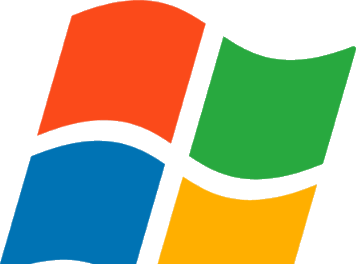
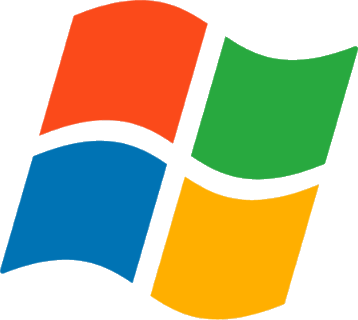
Boot: full uncropped original XP flag (bottom wave restored), boot shows on every reload for 5s; Start button uses full flag; right-click menu submenus fixed (hover no longer closes them, parent click toggles, outside-click only closes, submenus flip left near screen edge)

Changed region(s): [[0.0, 0.0, 1.0, 1.0], [0.2472, 0.0, 0.3399, 0.0303], [0.1854, 0.0303, 0.2472, 0.0909]]

diff --git a/src/components/win7/ContextMenu.tsx b/src/components/win7/ContextMenu.tsx
@@ -39,7 +39,13 @@ export function DesktopContextMenu(props: DesktopMenuProps) {
   }, [x, y]);
 
   useEffect(() => {
-    const away = () => onClose();
+    // Close only on a pointer press OUTSIDE any menu — never on a press
+    // inside the main menu or its submenu (stopPropagation alone was not
+    // reliable here, so check the actual target).
+    const away = (e: PointerEvent) => {
+      if ((e.target as HTMLElement | null)?.closest?.(".w7-menu")) return;
+      onClose();
+    };
     window.addEventListener("pointerdown", away);
     return () => window.removeEventListener("pointerdown", away);
   }, [onClose]);
@@ -47,7 +53,7 @@ export function DesktopContextMenu(props: DesktopMenuProps) {
   const item = (
     label: string,
     onClick?: () => void,
-    opts?: { submenu?: "view" | "sort" | "new"; checked?: boolean },
+    opts?: { submenu?: "view" | "sort" | "new"; checked?: boolean; inSubmenu?: boolean },
   ) => (
     <button
       key={label}
@@ -55,9 +61,21 @@ export function DesktopContextMenu(props: DesktopMenuProps) {
       role="menuitem"
       className="w7-menu-item"
       data-open={sub === opts?.submenu}
-      onPointerEnter={() => setSub(opts?.submenu ?? null)}
+      onPointerEnter={() => {
+        // BUG FIX: submenu items used to reset the open submenu to null on
+        // hover, so the submenu vanished the instant the pointer touched
+        // it and no click could ever land. Items inside an open submenu
+        // must leave the submenu state untouched.
+        if (opts?.inSubmenu) return;
+        setSub(opts?.submenu ?? null);
+      }}
       onClick={() => {
-        if (opts?.submenu) return;
+        // Parent items are clickable too: clicking View / Sort By / New
+        // toggles its submenu open (hover alone is not the only way in).
+        if (opts?.submenu) {
+          setSub((prev) => (prev === opts.submenu ? null : opts.submenu));
+          return;
+        }
         onClick?.();
         onClose();
       }}
@@ -72,7 +90,12 @@ export function DesktopContextMenu(props: DesktopMenuProps) {
     </button>
   );
 
-  const submenuStyle: React.CSSProperties = { left: "100%", top: -3, position: "absolute" };
+  // Near the right screen edge, open submenus to the LEFT so they stay
+  // on screen and clickable instead of overflowing off-screen.
+  const flip = pos.x > window.innerWidth - 430;
+  const submenuStyle: React.CSSProperties = flip
+    ? { right: "100%", top: -3, position: "absolute" }
+    : { left: "100%", top: -3, position: "absolute" };
 
   return (
     <div
@@ -87,9 +110,9 @@ export function DesktopContextMenu(props: DesktopMenuProps) {
       <div style={{ position: "relative" }} onPointerLeave={() => setSub(null)}>
         {item("View", undefined, { submenu: "view" })}
         {sub === "view" && (
-          <div className="w7-menu" role="menu" style={submenuStyle}>
+          <div className="w7-menu" role="menu" style={submenuStyle} onPointerEnter={() => setSub("view")}>
             {(["large", "medium", "small"] as IconSize[]).map((s) =>
-              item(`${s[0]?.toUpperCase()}${s.slice(1)} icons`, () => props.onIconSize(s), { checked: props.iconSize === s }),
+              item(`${s[0]?.toUpperCase()}${s.slice(1)} icons`, () => props.onIconSize(s), { checked: props.iconSize === s, inSubmenu: true }),
             )}
           </div>
         )}
@@ -98,8 +121,8 @@ export function DesktopContextMenu(props: DesktopMenuProps) {
       <div style={{ position: "relative" }} onPointerLeave={() => setSub(null)}>
         {item("Sort By", undefined, { submenu: "sort" })}
         {sub === "sort" && (
-          <div className="w7-menu" role="menu" style={submenuStyle}>
-            {["Name", "Date modified", "Item type", "Career importance"].map((s) => item(s, () => props.onSort(s)))}
+          <div className="w7-menu" role="menu" style={submenuStyle} onPointerEnter={() => setSub("sort")}>
+            {["Name", "Date modified", "Item type", "Career importance"].map((s) => item(s, () => props.onSort(s), { inSubmenu: true }))}
           </div>
         )}
       </div>
@@ -110,8 +133,8 @@ export function DesktopContextMenu(props: DesktopMenuProps) {
       <div style={{ position: "relative" }} onPointerLeave={() => setSub(null)}>
         {item("New", undefined, { submenu: "new" })}
         {sub === "new" && (
-          <div className="w7-menu" role="menu" style={submenuStyle}>
-            {["New Folder", "Text Document", "Project Shortcut"].map((s) => item(s, () => props.onNew(s)))}
+          <div className="w7-menu" role="menu" style={submenuStyle} onPointerEnter={() => setSub("new")}>
+            {["New Folder", "Text Document", "Project Shortcut"].map((s) => item(s, () => props.onNew(s), { inSubmenu: true }))}
           </div>
         )}
       </div>

diff --git a/src/components/win7/Desktop.tsx b/src/components/win7/Desktop.tsx
@@ -291,23 +291,9 @@ export function Desktop() {
   const [booting, setBooting] = useState<null | boolean>(null); // null = undecided (SSR)
   const [bootDone, setBootDone] = useState(false);
 
+  // Boot shows on EVERY page load/reload, for the full 5 seconds.
   useEffect(() => {
-    let seen = false;
-    try {
-      seen = sessionStorage.getItem("w7-booted") === "1";
-    } catch {
-      /* ignore */
-    }
-    if (seen) {
-      setBooting(false);
-      return;
-    }
     setBooting(true);
-    try {
-      sessionStorage.setItem("w7-booted", "1");
-    } catch {
-      /* ignore */
-    }
     // 5-second boot: fade-out starts at 4.58s and runs 0.42s, so the screen
     // clears at exactly 5.00s.
     const t = window.setTimeout(() => setBootDone(true), 4580);

diff --git a/src/components/win7/icons.tsx b/src/components/win7/icons.tsx
@@ -272,7 +272,7 @@ export function OrbEmblem({ size = 28 }: { size?: number }) {
       alt=""
       aria-hidden="true"
       width={size}
-      height={Math.round((size * 264) / 356)}
+      height={Math.round((size * 320) / 358)}
       loading="lazy"
       style={{ display: "block", objectFit: "contain" }}
     />
